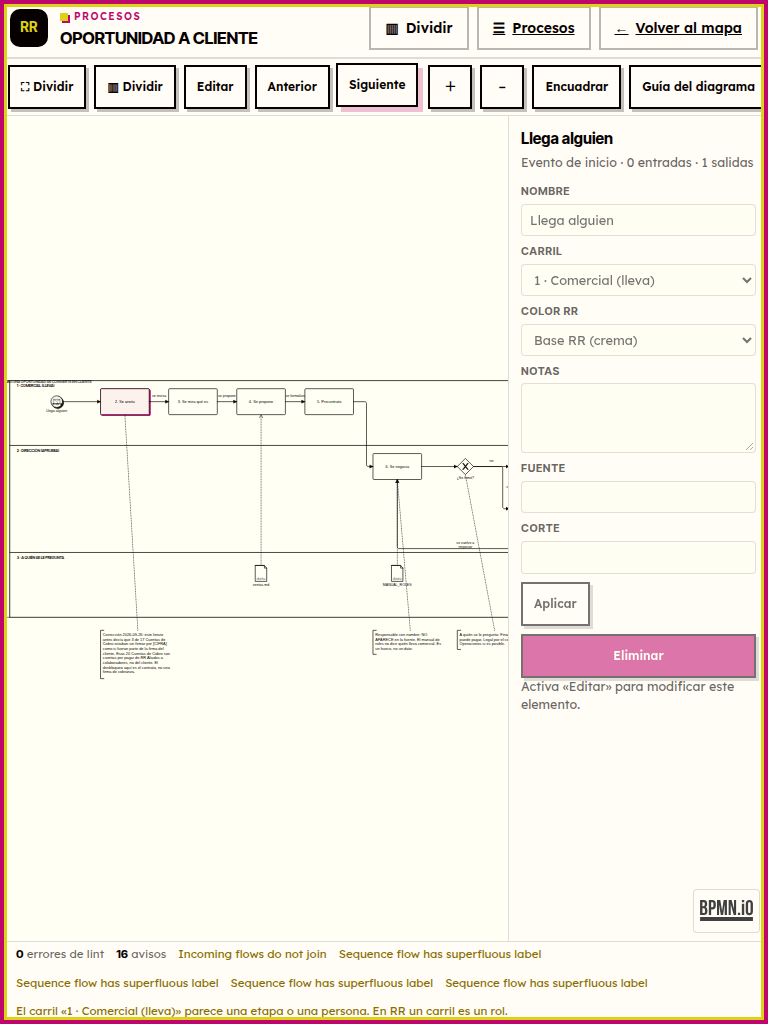
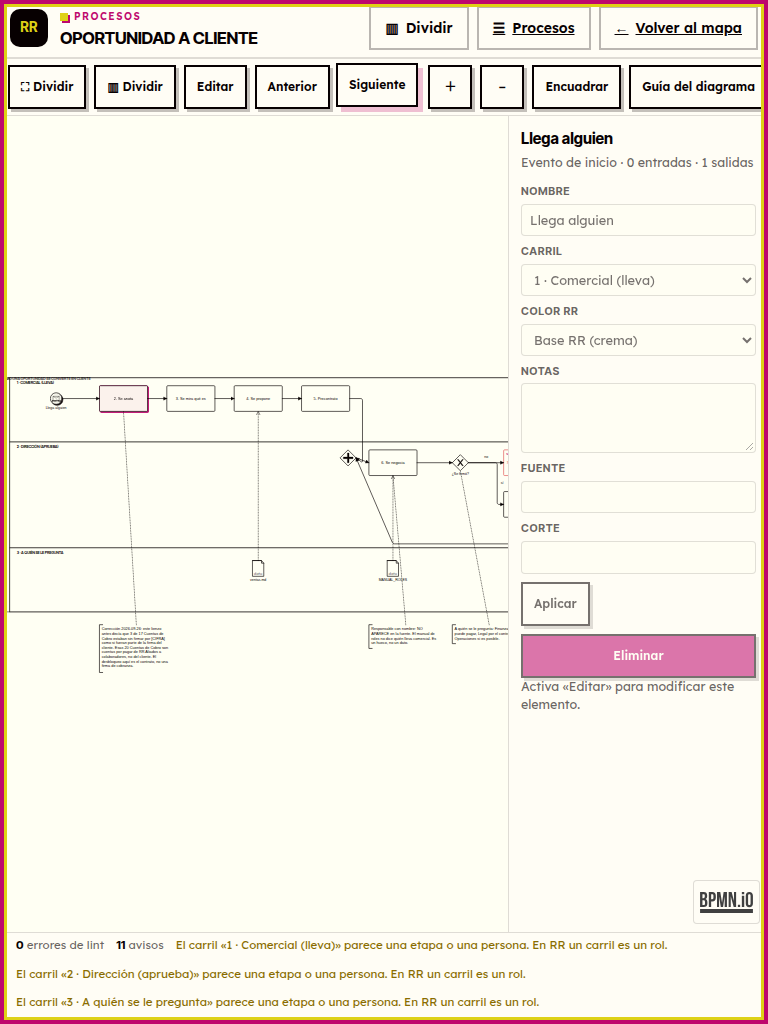
docs: pruebas del bloque 7 (responsive, táctil y semillas reparadas)

diff --git a/docs/fusion/PRUEBAS.md b/docs/fusion/PRUEBAS.md
@@ -62,6 +62,44 @@ Este archivo se actualiza al final de cada fase con las pruebas ejecutadas y sus
 - [x] Medición del lienzo: escritorio 1150×471 → 1440×653 px; tableta 768×320 → 768×825 px; móvil 360×320 → 360×532 px.
 - [x] Capturas: `docs/fusion/capturas/pantalla-bpmn-*.png` (catálogo, pantalla completa y guía en escritorio, móvil 390 y móvil 360).
 
+## Bloque 6 · Item 6 · Pantalla dividida opcional
+
+- [x] `npm run verificar:dividido` verde en escritorio 1440×900 y móvil 390×844: el panel abre con **Otro diagrama** (66 formas visibles), **Esquema** (16 procesos en 7 áreas) e **Inicio** (20 tarjetas: 11 clientes y 9 servicios); tocar una ficha abre el proceso en el diagrama principal; la tecla **D** alterna el panel.
+- [x] Cero errores de consola en escritorio y móvil.
+
+## Bloque 7 · Item 7 · Responsive y táctil + decisiones de Rosas
+
+### Pruebas de clic real (Playwright sobre `/usr/bin/google-chrome`)
+
+| Prueba | 1440 | 768 | 360 | Evidencia |
+|---|---|---|---|---|
+| Clic en un nodo del mapa abre el inspector | ✅ | ✅ | ✅ | el paso «navegar» de `npm run audit:ux` pasó en las tres medidas (antes fallaba con *timeout* en 768 y 360) |
+| Zoom del mapa legible (≥ 45 %) | 20 % (encuadre completo) | 45 % | 45 % | `src/app/rr-tree-view.test.mjs` (J8 y P2) |
+| La raíz del Atlas queda a la vista y se puede tocar | ✅ | ✅ | ✅ | idem (nueva comprobación `assertMovilUsable`) |
+| Pellizco con dos dedos (zoom) | ✅ 20 % → 51 % | — | ✅ 45 % → 113 % | prueba propia con `PointerEvent` de tipo `touch` |
+| Pan con un dedo | ✅ | — | ✅ | misma prueba |
+| Cabecera BPMN sin solape (título vs «▥ Unir») | ✅ | ✅ | ✅ | título 60→228 px, acciones 240→380 px a 390 px |
+| Menú «⋯» del diagrama con 7 acciones de 44 px | — | — | ✅ | `.bpmn-menu--mas` fijo a la izquierda, dentro de la pantalla |
+| Objetivos táctiles ≥ 44 px | ✅ | ✅ | ✅ | `npm run audit:ux` sin «objetivosChicos» en ninguna medida |
+| Cero errores de consola | ✅ | ✅ | ✅ | `docs/fusion/AUDITORIA_UX.json` → `consola: []` |
+
+### Comprobaciones del repo
+
+- [x] `npm run check`: **verde** — 202 tests pass, 0 fail, build ok.
+- [x] `npm run lint:bpmn`: **verde** — 16 semillas, moddle sin avisos, **0 errores** y **0 avisos de las reglas estructurales de bpmnlint** (antes: 196 avisos, entre ellos 8 `no-gateway-join-fork`, 19 `fake-join` y 25 `superfluous-label`).
+- [x] `npm run verificar:bpmn-edicion` verde (escritorio 1440 y móvil 390).
+- [x] `npm run verificar:pantalla` verde (1440×900, 390×844 y 360×740).
+- [x] `npm run verificar:guia` verde (escritorio y móvil).
+- [x] `npm run verificar:dividido` verde (escritorio y móvil).
+- [x] `npm run audit:ux` verde: 3 viewports × 7 pasos, **21 pasos**, 0 errores de consola, sin desbordes horizontales y sin objetivos táctiles pequeños.
+- [x] Capturas: `docs/fusion/capturas/auditoria/` (21 capturas por viewport y paso) y `docs/fusion/capturas/bpmn-edicion-*.png`.
+
+### Cambios en las pruebas del repo
+
+- `src/app/rr-tree-view.test.mjs`: el zoom móvil mínimo pasa de 60 % a **45 %** y se adds la comprobación de que la raíz del Atlas queda dentro del lienzo y mide ≥ 90×44 px. En 1440 px el encuadre completo no cambia.
+- `src/data/rr-tree.test.mjs`: el estado de los bots ahora es el que dicta la decisión de Rosas (Vigente / Sin confirmar) en vez del «Por confirmar con Rosas» automático.
+- `scripts/verificar-bpmn-edicion.mjs` y `scripts/auditoria-ux-fusion.mjs`: abren el menú «⋯» antes de pulsar deshacer, rehacer, guardar, restaurar y exportar (en celular esas acciones viven en el menú).
+
 ## Fases posteriores
 
 Se irán agregando conforme avance la fusión.
